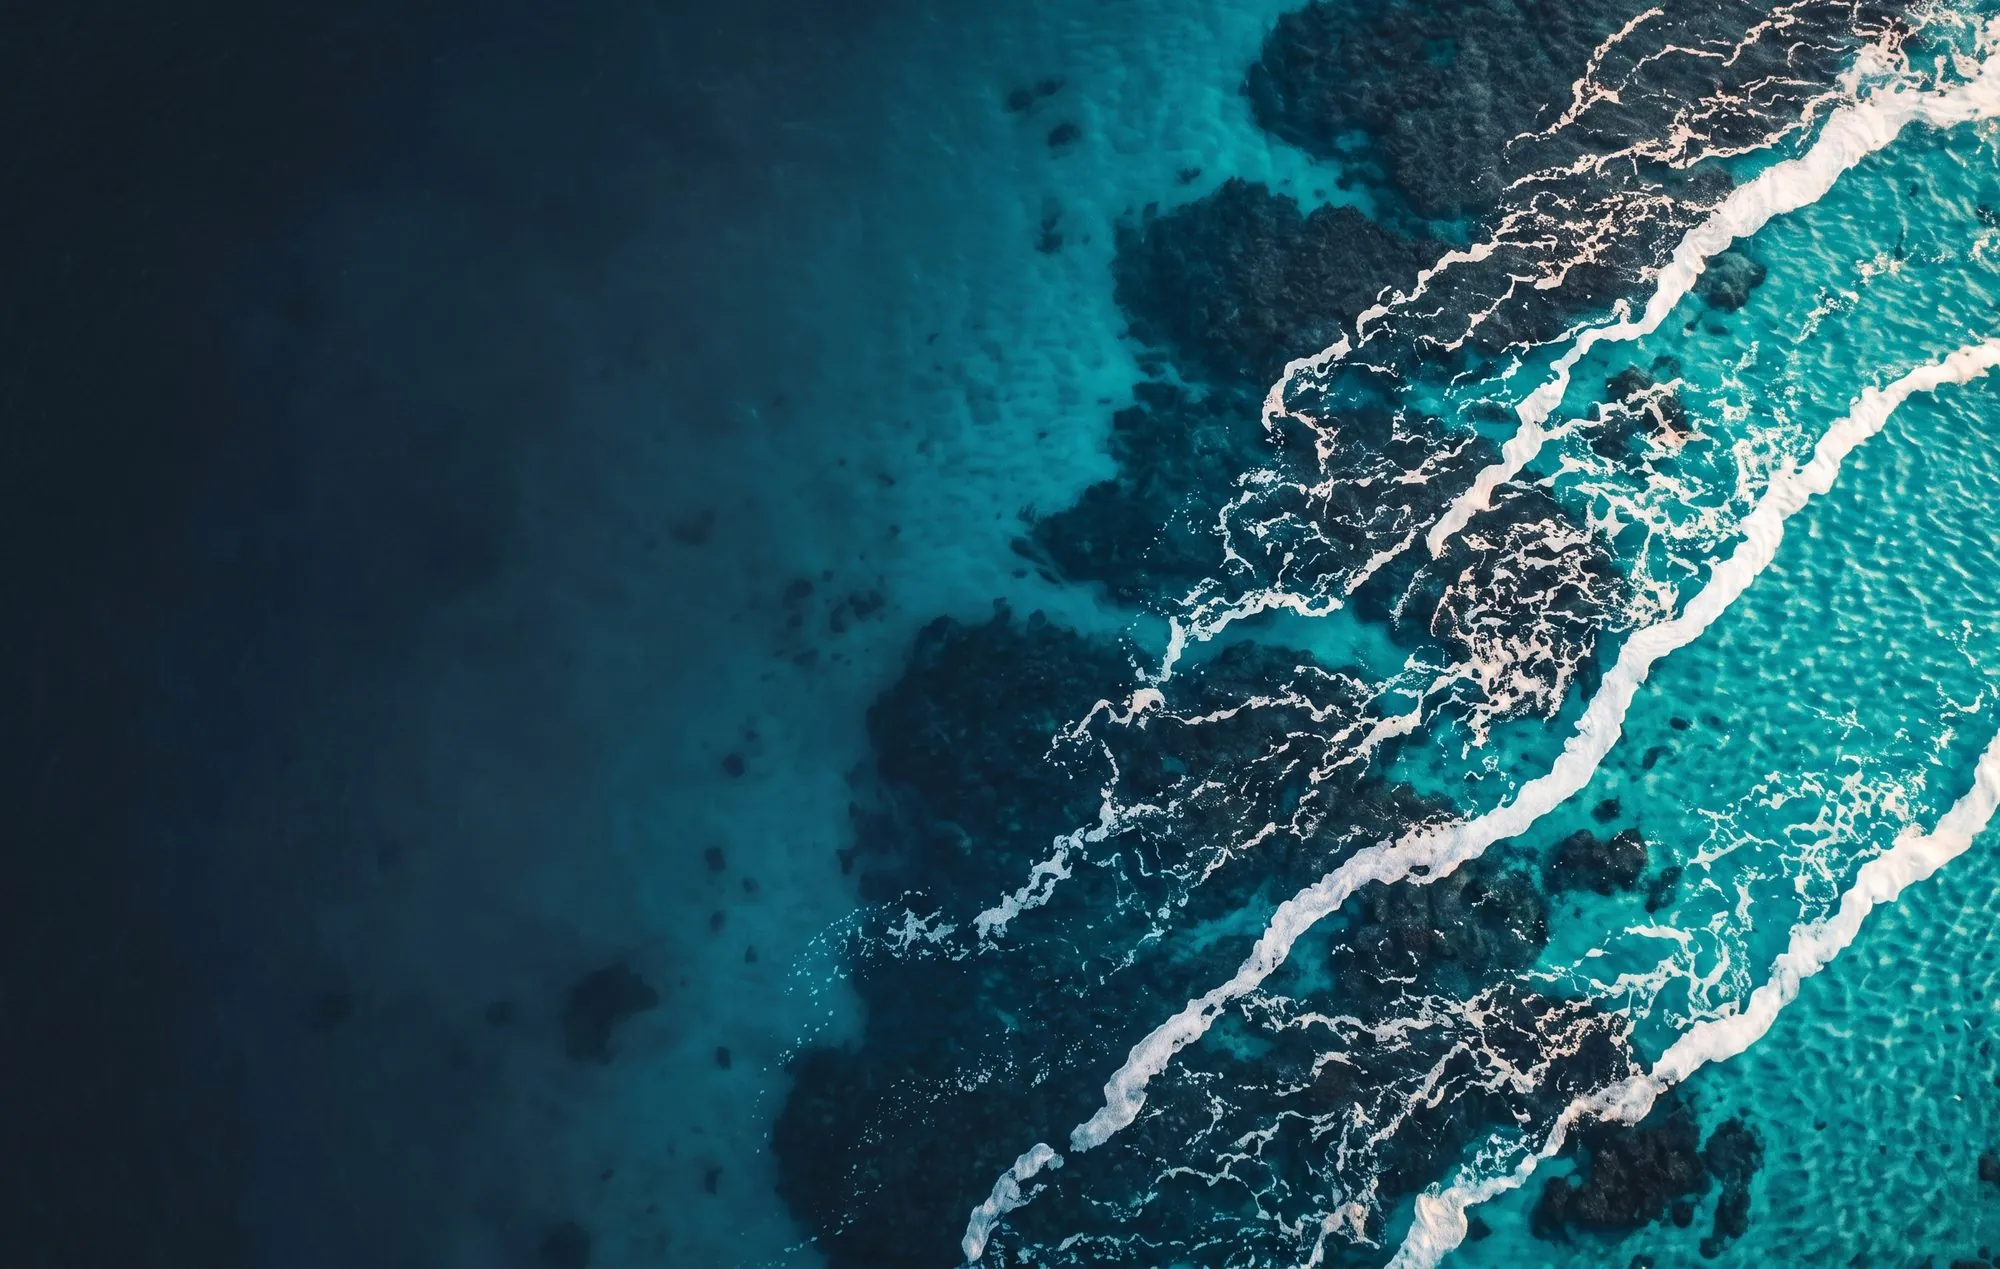
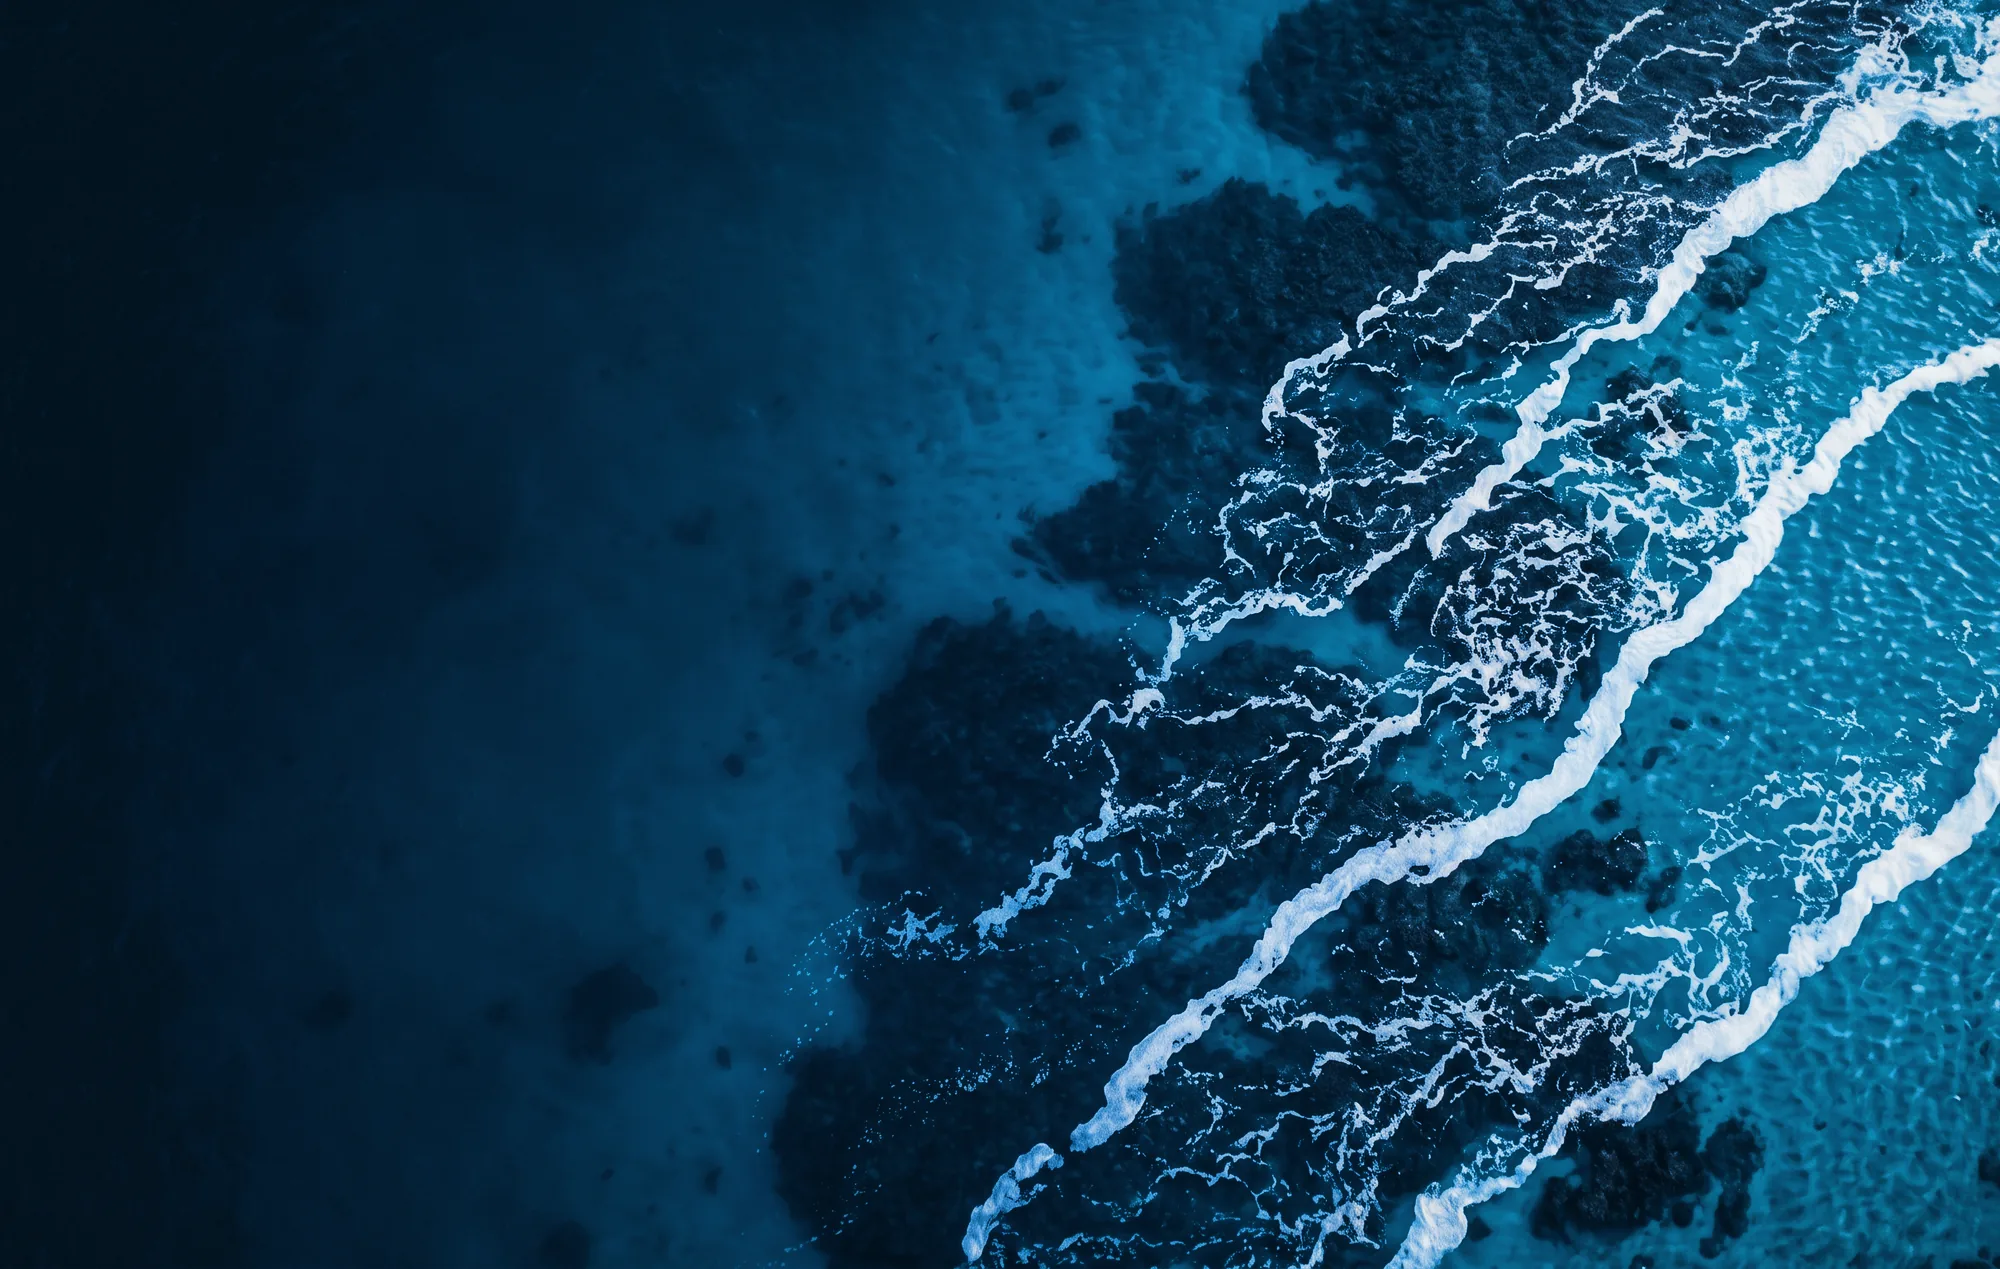
Оживить первый экран: наплыв, блик по воде и параллакс
Движение фона раньше упиралось в слой mix-blend-mode: браузеру пришлось
бы пересчитывать смешивание каждый кадр, на этом рендер и ложился.
Поэтому грейд впечён прямо в файл (scripts/bake_hero.py повторяет ровно
то, что делал CSS), а слой смешивания убран.

После этого движение стало бесплатным — остались только перемещения,
которые целиком выполняет видеокарта:
- медленный наплыв кадра, 46 секунд на цикл;
- блик, проходящий по воде, как солнце по ряби;
- параллакс при прокрутке через нативный scroll-таймлайн, без JS.

Замер в покое со всеми анимациями: 120 кадров в секунду, медиана 8.3 мс,
худший кадр 17.6 мс, ни одного кадра длиннее 20 мс.

Параллакс привязан к прокрутке страницы, а не к видимости элемента:
фон ровно во весь экран, и диапазоны вроде contain для него не наступают
никогда. Запас по высоте 72px не даёт оголиться верхней кромке.

Changed region(s): [[0.403, 0.0, 1.0, 1.0], [0.465, 0.8298, 0.527, 0.8605]]

diff --git a/css/styles.css b/css/styles.css
@@ -191,24 +191,62 @@ button { font: inherit; }
   overflow: hidden;
 }
 .hero__media { position: absolute; inset: 0; z-index: -1; }
-/* Кадр статичный: смешивание слоёв считается один раз.
-   Бесконечный зум под mix-blend-mode заставлял бы браузер
-   пересчитывать блендинг каждый кадр — дорого на слабых устройствах. */
+/* Грейд теперь впечён в сам файл (scripts/bake_hero.py), поэтому здесь
+   нет ни filter, ни mix-blend-mode. Это принципиально: смешивание слоёв
+   пришлось бы пересчитывать на каждом кадре движения. Осталось только
+   перемещение — его целиком делает видеокарта. */
+.hero__media { overflow: hidden; }
 .hero__media img {
   width: 100%; height: 100%; object-fit: cover;
-  filter: saturate(1.45) contrast(1.1) brightness(.92);
-  transform: scale(1.04);
+  transform: scale(1.06);
+  will-change: transform;
+  animation: heroDrift 46s var(--ease) infinite alternate;
 }
-/* дуотон: уводим кадр в глубокую океанскую синеву, как на референсах */
-.hero__media::after {
-  content: ''; position: absolute; inset: 0;
-  background: linear-gradient(190deg, #0b5c94, #0a3a63 45%, #072742);
-  mix-blend-mode: color;
-  opacity: .62;
+/* Медленный наплыв: за минуту кадр проходит путь, который глаз почти
+   не замечает, но вода перестаёт быть фотографией и начинает дышать. */
+@keyframes heroDrift {
+  from { transform: scale(1.06) translate3d(0, 0, 0); }
+  to   { transform: scale(1.13) translate3d(-1.4%, -1.2%, 0); }
 }
 
-/* блики на воде */
-.hero__caustics, .cta__caustics {
+/* Блик, проходящий по воде — как солнце по ряби. Обычная прозрачность,
+   без режимов смешивания, поэтому стоит копейки. */
+.hero__caustics {
+  position: absolute; inset: -30% -40%;
+  background:
+    linear-gradient(101deg, transparent 40%, rgba(196, 238, 255, .13) 50%, transparent 60%),
+    linear-gradient(101deg, transparent 64%, rgba(140, 220, 255, .08) 72%, transparent 80%);
+  will-change: transform;
+  animation: heroSheen 30s ease-in-out infinite alternate;
+}
+@keyframes heroSheen {
+  from { transform: translate3d(-14%, 0, 0); }
+  to   { transform: translate3d(14%, 0, 0); }
+}
+
+/* Параллакс при прокрутке: вода уходит медленнее текста. Считает браузер
+   на своей стороне, без единой строчки JS. Где не поддержано — просто нет
+   параллакса, остальное работает.
+
+   Привязываемся к прокрутке страницы, а не к видимости элемента: фон ровно
+   во весь экран, поэтому диапазоны вроде contain для него не наступают
+   никогда. Запас по высоте нужен, чтобы при сдвиге вниз не оголилась
+   верхняя кромка. */
+@supports (animation-timeline: scroll()) {
+  @media (prefers-reduced-motion: no-preference) {
+    .hero__media {
+      top: -10%; height: 120%;
+      animation: heroParallax linear both;
+      animation-timeline: scroll(root block);
+      animation-range: 0 100vh;
+    }
+    @keyframes heroParallax {
+      to { transform: translate3d(0, 8%, 0); }
+    }
+  }
+}
+
+.cta__caustics {
   position: absolute; inset: -10%;
   background:
     radial-gradient(50% 40% at 20% 30%, rgba(56, 208, 255, .26), transparent 65%),

diff --git a/scripts/bake_hero.py b/scripts/bake_hero.py
@@ -1,0 +1,95 @@
+#!/usr/bin/env python3
+# -*- coding: utf-8 -*-
+"""
+Впекаем грейд героя прямо в файл.
+
+Раньше дуотон делался в браузере слоем с mix-blend-mode поверх фотографии.
+Пока фон был статичным, это стоило один пересчёт. Но любое движение фона
+заставляло браузер пересчитывать смешивание каждый кадр — на этом рендер
+и ложился. Считаем то же самое один раз здесь.
+
+Повторяем ровно то, что делал CSS:
+    filter: saturate(1.45) contrast(1.1) brightness(.92)
+    + linear-gradient(190deg, #0b5c94, #0a3a63 45%, #072742)
+      с mix-blend-mode: color и opacity .62
+
+    python3 scripts/bake_hero.py
+"""
+
+import colorsys
+import numpy as np
+from pathlib import Path
+from PIL import Image
+
+SRC = Path("assets/img/new/Gemini_Generated_Image_5321jh5321jh5321.png")
+OUT = Path("assets/img/hero-water.webp")
+WIDTH = 2000
+CROP_RIGHT = 0.12          # тот же срез маркера Gemini, что и при первой обработке
+
+SATURATE, CONTRAST, BRIGHTNESS = 1.45, 1.10, 0.92
+GRADIENT = [(0.00, (0x0b, 0x5c, 0x94)),
+            (0.45, (0x0a, 0x3a, 0x63)),
+            (1.00, (0x07, 0x27, 0x42))]
+GRADIENT_ANGLE = 190       # градусы, как в CSS
+OPACITY = 0.62
+
+
+def css_filters(a):
+    """saturate → contrast → brightness, в том же порядке, что и в CSS."""
+    lum = (a * np.array([0.2126, 0.7152, 0.0722])).sum(axis=2, keepdims=True)
+    a = lum + (a - lum) * SATURATE
+    a = (a - 0.5) * CONTRAST + 0.5
+    return np.clip(a * BRIGHTNESS, 0, 1)
+
+
+def gradient_layer(h, w):
+    """Линейный градиент под углом, как его считает CSS."""
+    rad = np.deg2rad(GRADIENT_ANGLE - 90)
+    dx, dy = np.cos(rad), np.sin(rad)
+    xs = (np.arange(w) - w / 2)[None, :]
+    ys = (np.arange(h) - h / 2)[:, None]
+    t = xs * dx + ys * dy
+    t = (t - t.min()) / (t.max() - t.min())
+
+    stops = np.array([s for s, _ in GRADIENT])
+    cols = np.array([c for _, c in GRADIENT], dtype=float) / 255
+    out = np.empty((h, w, 3))
+    for i in range(3):
+        out[..., i] = np.interp(t, stops, cols[:, i])
+    return out
+
+
+def blend_color(base, top):
+    """Режим «color»: тон и насыщенность сверху, светлота снизу."""
+    def to_hls(a):
+        flat = a.reshape(-1, 3)
+        return np.array([colorsys.rgb_to_hls(*px) for px in flat]).reshape(a.shape)
+
+    b, t = to_hls(base), to_hls(top)
+    mixed = np.stack([t[..., 0], b[..., 1], t[..., 2]], axis=-1)   # H top, L base, S top
+    flat = mixed.reshape(-1, 3)
+    rgb = np.array([colorsys.hls_to_rgb(*px) for px in flat]).reshape(base.shape)
+    return np.clip(rgb, 0, 1)
+
+
+def main():
+    im = Image.open(SRC).convert("RGB")
+    w, h = im.size
+    im = im.crop((0, 0, int(w * (1 - CROP_RIGHT)), h))
+    cw, ch = im.size
+    im = im.resize((WIDTH, round(ch * WIDTH / cw)), Image.LANCZOS)
+
+    a = np.asarray(im, dtype=float) / 255
+    a = css_filters(a)
+
+    h, w, _ = a.shape
+    g = gradient_layer(h, w)
+    a = a * (1 - OPACITY) + blend_color(a, g) * OPACITY
+
+    Image.fromarray((np.clip(a, 0, 1) * 255).astype("uint8")).save(
+        OUT, "WEBP", quality=82, method=6)
+    print("%s  %dx%d  %d КБ" % (OUT, w, h, OUT.stat().st_size / 1024))
+
+
+if __name__ == "__main__":
+    main()
